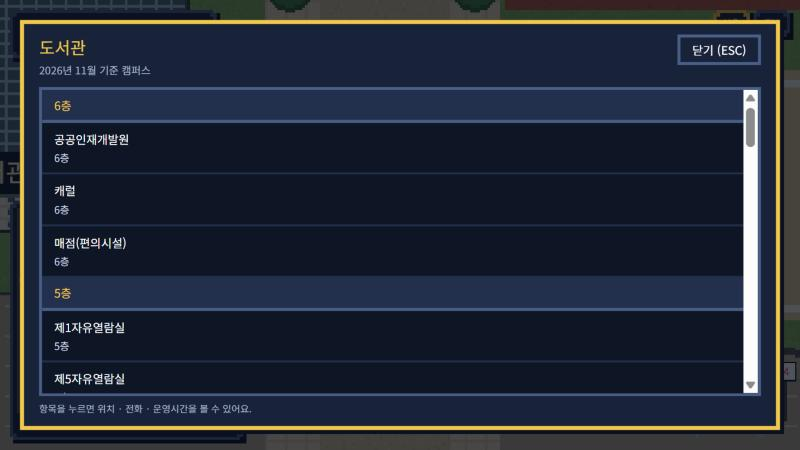
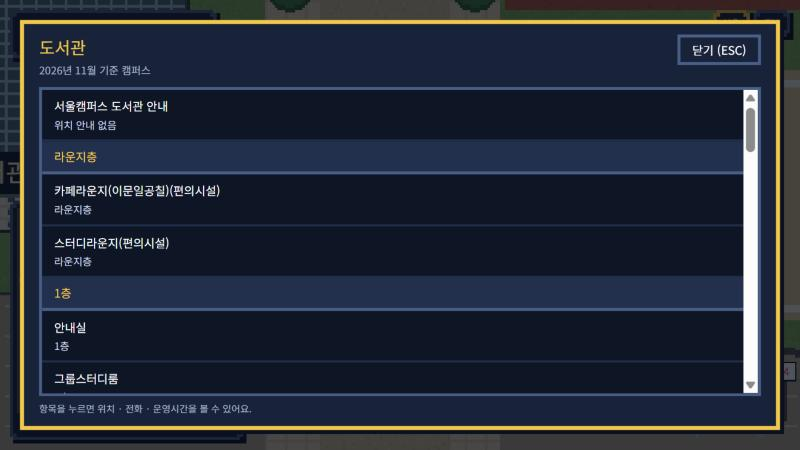
층 순서를 오름차순(라운지층 → 1층 → 6층)으로 바꾸고 지하층·도서관 층 안내 없음 줄 삭제
- 층별 묶음: 맨 위 건물 안내 → 라운지층 → 1층 → … → 6층 → 층 안내 없음(모든 건물 공통)
- 로비층 표기를 라운지층(Lounge)으로 바꾸고, 지하층(B1F) 읽기·표시를 없앰
- 도서관: '서울도서관 안내'를 '서울캠퍼스 도서관 안내'로 바꿔 맨 위(top)에 두고, 운영시간은 1층·라운지층 시간으로
- 도서관 층 안내 없는 줄(무인반납기·빵명장·자료실 이용시간·시험기간 자유열람실) 삭제, 일반자료실에 운영시간 추가
- 화면 캡처 다시 찍음(union·library·cyber, ko/en)

diff --git a/src/data/buildingInfo.js b/src/data/buildingInfo.js
@@ -15,12 +15,13 @@
  *
  * offices 한 줄: { name: {ko,en}, floor, room, does: {ko,en}, src, category, phone, hours, details, extraSrc?, checkedAt? }
  * - name.en: 근거에 적힌 영어 공식 표기만. 없으면 null(화면은 한국어 이름으로 대신 보여 줌)
- * - floor: "1F" · "LF"(로비층) · "B1F"처럼 근거 페이지에 층이 적혀 있을 때만, 여러 층이면 "2F · 3F". 호수만 있으면 null(호수로 층을 짐작해 넣지 않음)
- *   안내 창은 이 값으로 층별 묶음을 만듭니다(높은 층 → 1F → LF → B1F → 층 안내 없음).
+ * - floor: "1F" · "LF"(라운지층, 도서관)처럼 근거 페이지에 층이 적혀 있을 때만, 여러 층이면 "2F · 3F". 지하층은 다루지 않습니다.
+ *   호수만 있으면 null(호수로 층을 짐작해 넣지 않음). 안내 창은 이 값으로 층별 묶음을 만듭니다(라운지층 → 1층 → … → 6층 → 층 안내 없음).
+ * - top: true면 층 묶음 위, 목록 맨 위에 묶음 제목 없이 보여 줍니다(건물 전체 안내 한 줄용)
  * - room: "118호"처럼 근거에 적힌 그대로. 없으면 null
  * - does: 하는 일 한 줄. 근거 페이지에 적힌 범위 안에서만
  * - src: 아래 SOURCES의 키. 항목마다 근거가 다를 수 있어 줄마다 붙입니다
- * - category: "office"(행정 · 센터 · 도서관 안 시설) · "amenity"(식당 · 카페 · 매점 등 편의시설). 목록을 두 묶음으로 나눌 때 씁니다
+ * - category: "office"(행정 · 센터 · 도서관 안 시설) · "amenity"(식당 · 카페 · 매점 · 휴게 공간 등 편의시설). 편의시설은 화면에서 이름 뒤에 "(편의시설)"
  * - phone: 학교 부서 번호 문자열 배열(02-2173- · 02-6235-로 시작, 근거에 적힌 그대로 "02-2173-2152~4"). 없으면 null.
  *   전화번호는 이 칸에만 넣습니다(does · details · hours 글에 넣지 않음). 휴대폰 · 가게 직통 · 팩스 · 이메일은 넣지 않습니다
  * - hours: 운영시간 { ko, en }. 없으면 null(화면에 "안내 없음")
@@ -106,6 +107,7 @@ const o = (ko, en, floor, room, doesKo, doesEn, src, extra = {}) => ({
   details: extra.details ?? null,
   ...(extra.extraSrc ? { extraSrc: extra.extraSrc } : {}),
   ...(extra.checkedAt ? { checkedAt: extra.checkedAt } : {}),
+  ...(extra.top ? { top: true } : {}),
 });
 const OFFICE = { category: "office" };
 const AMENITY = { category: "amenity" };
@@ -554,25 +556,28 @@ export const BUILDING_INFO = {
       en: "General collection on 3F, research collection on 4F.",
     },
     offices: [
-      o("서울도서관 안내", null, null, null, "서울도서관 이용 문의", "Seoul Library inquiries", "lifeguide2026", {
+      o("서울캠퍼스 도서관 안내", null, null, null, "서울캠퍼스 도서관 이용 문의", "Seoul Campus Library inquiries", "lifeguide2026", {
         ...OFFICE,
+        top: true,
         phone: ["02-2173-2472~4"],
+        hours: LIB_HOURS,
         details: L(
           [
-            "지상 6층 · 지하층, 60만 권 자료실 · 70만 권 보존서고",
+            "지상 6층, 60만 권 자료실 · 70만 권 보존서고",
             "자유열람실 5개 900석, 특수열람실 159석",
             "컨퍼런스룸 180석, 캐럴 59실, 그룹스터디룸 16실",
             "멀티미디어실(PC 90석 · 노트북 129석), 세미나룸",
             "출입: 학생증 또는 모바일ID(QR · NFC)",
           ],
           [
-            "Six floors above ground plus a lower level; stacks for 600,000 and storage for 700,000 volumes",
+            "Six floors above ground; stacks for 600,000 and storage for 700,000 volumes",
             "Five reading rooms with 900 seats, special reading rooms with 159 seats",
             "Conference room for 180, 59 carrels, 16 group study rooms",
             "Multimedia room (90 PCs, 129 laptop seats) and seminar rooms",
             "Entry: student ID or mobile ID (QR or NFC)",
           ]
         ),
+        extraSrc: { hours: "team1124" },
         checkedAt: ADDED,
       }),
       // 6F (서울도서관 홈페이지 층별안내)
@@ -656,7 +661,7 @@ export const BUILDING_INFO = {
         checkedAt: ADDED,
       }),
       o("세미나룸", null, "2F", null, "35석", "35 seats", "libFloor", { ...OFFICE, checkedAt: ADDED }),
-      // 1F · 로비층(LF): 이 두 층의 시설은 스마트플라자와 여는 · 닫는 시간이 같습니다(이종헌 확인, team1124).
+      // 1F · 라운지층(LF): 이 두 층의 시설은 스마트플라자와 여는 · 닫는 시간이 같습니다(이종헌 확인, team1124).
       o("안내실", null, "1F", null, "도서관 1층 안내", "Library 1st-floor information desk", "libFloor", {
         ...OFFICE,
         hours: LIB_HOURS,
@@ -699,8 +704,8 @@ export const BUILDING_INFO = {
         extraSrc: { hours: "libHours", details: "libFloor" },
         checkedAt: ADDED,
       }),
-      // 로비층(LF)
-      o("카페라운지(이문일공칠)", null, "LF", null, "로비층 카페, 좌석 배정 없이 이용 · 음료 가능", "Lobby-floor café; no seat booking, drinks allowed", "libFloor", {
+      // 라운지층(LF)
+      o("카페라운지(이문일공칠)", null, "LF", null, "라운지층 카페, 좌석 배정 없이 이용 · 음료 가능", "Lounge-floor café; no seat booking, drinks allowed", "libFloor", {
         ...AMENITY,
         hours: LIB_HOURS,
         details: L(["커피 · 음료 · 베이커리(이문일공칠 인더북)"], ["Coffee, drinks and bakery (Imun 107 In the Book)"]),
@@ -714,12 +719,12 @@ export const BUILDING_INFO = {
         extraSrc: { hours: "team1124" },
         checkedAt: ADDED,
       }),
-      o("무인반납기", null, null, null, "로비층 · 1층 부출입구에서 도서 직접 반납", "Self-return machines on the lobby floor and at the 1st-floor side entrance", "lifeguide2026", {
+      o("일반자료실", "General collection", "3F", null, "정보봉사파트 자료실", "Information services collection", "phone", {
         ...OFFICE,
-        phone: ["02-2173-2474"],
+        hours: LIB_HOURS,
+        extraSrc: { hours: "libHours" },
         checkedAt: ADDED,
       }),
-      o("일반자료실", "General collection", "3F", null, "정보봉사파트 자료실", "Information services collection", "phone", OFFICE),
       o("복사실", "Copy room", "3F", null, "복사", "Copying", "phone", AMENITY),
       o("무인 복사실", "Self-service copy room", "1F · 2F · 3F", null, "복사 · 프린트", "Copying and printing", "welfare", AMENITY),
       o("학술연구자료실", "Research collection", "4F", null, "정보봉사파트 자료실", "Information services collection", "phone", {
@@ -749,22 +754,6 @@ export const BUILDING_INFO = {
         checkedAt: ADDED,
       }),
       o("매점", "Snack shop", "6F", null, "간식 · 음료 판매", "Snacks and drinks", "phone", AMENITY),
-      o("빵명장", "Bbang Myeongjang bakery", null, null, "건물 뒤 베이커리 카페", "Bakery café behind the building", "welfare", AMENITY),
-      o("자료실 이용시간", "Collection hours", null, null, "학기 중 평일 09:00~21:00, 학기 중 토요일 09:00~17:00, 방학 중 평일·토요일 09:00~17:00, 공휴일 폐실", "Semester weekdays 09:00-21:00, semester Saturdays 09:00-17:00, vacation weekdays and Saturdays 09:00-17:00, closed on holidays", "guide2026", {
-        ...OFFICE,
-        hours: LIB_HOURS,
-        details: L(
-          ["일반자료실 · 학술연구자료실 · 스마트플라자 같은 시간", "법정공휴일 휴관", "방학 중 시간은 학교 지침에 따라 바뀔 수 있음(도서관 홈페이지 공지)"],
-          ["Same hours for the general and research collections and Smart Plaza", "Closed on public holidays", "Vacation hours may change by university policy (see library notices)"]
-        ),
-        extraSrc: "lifeguide2026",
-        checkedAt: ADDED,
-      }),
-      o("시험기간 자유열람실", null, null, null, "시험기간 2주 전부터 제1~5 자유열람실 모두 24시간 개방", "From two weeks before exams, Reading Rooms 1-5 are all open 24 hours", "team1124", {
-        ...OFFICE,
-        hours: L("시험기간 2주 전부터 24시간 개방", "Open 24 hours from two weeks before exams"),
-        checkedAt: ADDED,
-      }),
     ],
     checkedAt: CHECKED,
   },

diff --git a/tests/officeView.test.js b/tests/officeView.test.js
@@ -39,50 +39,46 @@ test("위치 한 줄: 층 · 호수, 없으면 null", () => {
   assert.equal(locationText({ floor: "1F", room: "122호" }, "en"), "1F, Room 122");
   assert.equal(locationText({ floor: null, room: "603호" }, "ko"), "603호");
   assert.equal(locationText({ floor: "2F · 3F · 4F · 5F", room: null }, "ko"), "2층 · 3층 · 4층 · 5층");
-  assert.equal(locationText({ floor: "B1", room: null }, "ko"), "지하 1층");
-  assert.equal(locationText({ floor: "B1F", room: null }, "en"), "B1");
-  assert.equal(locationText({ floor: "LF", room: null }, "ko"), "로비층");
-  assert.equal(locationText({ floor: "LF", room: null }, "en"), "Lobby");
+  assert.equal(locationText({ floor: "LF", room: null }, "ko"), "라운지층");
+  assert.equal(locationText({ floor: "LF", room: null }, "en"), "Lounge");
   assert.equal(locationText({ floor: null, room: null }, "ko"), null);
 });
 
-test("층 읽기 · 묶음 제목: 6층 · 로비층 · 지하 1층 / 6F · Lobby · B1", () => {
+test("층 읽기 · 묶음 제목: 6층 · 라운지층 / 6F · Lounge, 지하층은 다루지 않음", () => {
   assert.deepEqual(parseFloor("6F"), { kind: "up", n: 6 });
-  assert.deepEqual(parseFloor("LF"), { kind: "lobby", n: 0 });
-  assert.deepEqual(parseFloor("B1F"), { kind: "basement", n: 1 });
-  assert.deepEqual(parseFloor("B1"), { kind: "basement", n: 1 });
-  assert.equal(parseFloor("옥상"), null);
+  assert.deepEqual(parseFloor("LF"), { kind: "lounge", n: 0 });
+  for (const token of ["B1F", "B1", "옥상"]) assert.equal(parseFloor(token), null, token);
   assert.equal(floorLabel(parseFloor("6F"), "ko"), "6층");
-  assert.equal(floorLabel(parseFloor("LF"), "ko"), "로비층");
-  assert.equal(floorLabel(parseFloor("B1F"), "ko"), "지하 1층");
+  assert.equal(floorLabel(parseFloor("LF"), "ko"), "라운지층");
   assert.equal(floorLabel(parseFloor("6F"), "en"), "6F");
-  assert.equal(floorLabel(parseFloor("LF"), "en"), "Lobby");
-  assert.equal(floorLabel(parseFloor("B1F"), "en"), "B1");
+  assert.equal(floorLabel(parseFloor("LF"), "en"), "Lounge");
 });
 
 const o = (name, floor, category = "office") => ({ name: { ko: name, en: null }, floor, category });
-const order = (groups) => groups.map((g) => (g.floor ? floorLabel(g.floor, "ko") : "없음"));
+const order = (groups) => groups.map((g) => (g.top ? "맨 위" : g.floor ? floorLabel(g.floor, "ko") : "없음"));
 
-test("층별 묶음: 높은 층 → 1층 → 로비층 → 지하 → 층 안내 없음(마지막)", () => {
-  const groups = groupByFloor([o("가", "1F"), o("나", null), o("다", "B1F"), o("라", "6F"), o("마", "LF"), o("바", "3F")]);
-  assert.deepEqual(order(groups), ["6층", "3층", "1층", "로비층", "지하 1층", "없음"]);
+test("층별 묶음: 맨 위 안내(top) → 라운지층 → 1층 → … → 6층 → 층 안내 없음(마지막)", () => {
+  const groups = groupByFloor([o("가", "1F"), o("나", null), { ...o("건물 안내", null), top: true }, o("라", "6F"), o("마", "LF"), o("바", "3F")]);
+  assert.deepEqual(order(groups), ["맨 위", "라운지층", "1층", "3층", "6층", "없음"]);
+  assert.deepEqual(groups[0].items.map((i) => i.office.name.ko), ["건물 안내"]);
 });
 
 test("여러 층 항목은 각 층 묶음에 모두, floor null은 '층 안내 없음'에(호수로 층을 짐작하지 않음)", () => {
   const offices = [o("무인 복사실", "1F · 2F · 3F", "amenity"), o("학생상담센터", null), { ...o("인권센터", null), room: "346호" }];
   const groups = groupByFloor(offices);
-  assert.deepEqual(order(groups), ["3층", "2층", "1층", "없음"]);
+  assert.deepEqual(order(groups), ["1층", "2층", "3층", "없음"]);
   for (const g of groups.slice(0, 3)) assert.deepEqual(g.items.map((i) => i.index), [0]);
   assert.deepEqual(groups.at(-1).items.map((i) => i.office.name.ko), ["학생상담센터", "인권센터"]);
 });
 
-test("실제 데이터: 모든 항목이 한 번 이상 들어가고, 도서관은 6층부터 '층 안내 없음'까지", () => {
+test("실제 데이터: 모든 항목이 한 번 이상 들어가고, 도서관은 안내 → 라운지층 → 1층 → 6층(층 안내 없음 없음)", () => {
   for (const [id, info] of Object.entries(BUILDING_INFO)) {
     const seen = new Set(groupByFloor(info.offices).flatMap((g) => g.items.map((i) => i.index)));
     assert.equal(seen.size, info.offices.length, id);
   }
-  const library = order(groupByFloor(BUILDING_INFO.library.offices));
-  assert.deepEqual(library, ["6층", "5층", "4층", "3층", "2층", "1층", "로비층", "없음"]);
+  const library = groupByFloor(BUILDING_INFO.library.offices);
+  assert.deepEqual(order(library), ["맨 위", "라운지층", "1층", "2층", "3층", "4층", "5층", "6층"]);
+  assert.deepEqual(library[0].items.map((i) => i.office.name.ko), ["서울캠퍼스 도서관 안내"]);
 });
 
 test("전화 링크는 첫 번호로(표시는 원문 그대로)", () => {

diff --git a/src/ui/officeView.js b/src/ui/officeView.js
@@ -28,29 +28,26 @@ export function nearestOfficePlace(places, x, y, range = OFFICE_RANGE, hasInfo =
   return best;
 }
 
-// floor 칸 한 층("6F" · "LF" · "B1F" · 예전 표기 "B1")을 { kind, n }으로 읽습니다. 읽지 못하면 null.
-// kind: "up"(지상) · "lobby"(로비층) · "basement"(지하)
+// floor 칸 한 층("6F" · "LF")을 { kind, n }으로 읽습니다. 지하층은 다루지 않고, 읽지 못하면 null.
+// kind: "up"(지상) · "lounge"(라운지층, 도서관 LF)
 export function parseFloor(token) {
   const text = String(token).trim();
-  let m = /^(\d+)F$/.exec(text);
+  const m = /^(\d+)F$/.exec(text);
   if (m) return { kind: "up", n: Number(m[1]) };
-  if (text === "LF") return { kind: "lobby", n: 0 };
-  m = /^B(\d+)F?$/.exec(text);
-  if (m) return { kind: "basement", n: Number(m[1]) };
+  if (text === "LF") return { kind: "lounge", n: 0 };
   return null;
 }
 
 // "1F · 2F · 3F"처럼 여러 층이면 각 층을 모두 돌려줍니다. null이면 빈 배열(= "층 안내 없음").
 export const floorsOf = (office) => (office.floor ? office.floor.split(" · ").map(parseFloor).filter(Boolean) : []);
 
-// 정렬 순서: 높은 층 → 1F → 로비층(LF) → 지하 1층 → 지하 2층 …
-const floorRank = (f) => (f.kind === "up" ? 1000 + f.n : f.kind === "lobby" ? 500 : 500 - f.n);
+// 정렬 순서(위에서 아래로): 라운지층(LF) → 1층 → 2층 → … → 6층
+const floorRank = (f) => (f.kind === "lounge" ? 0 : f.n);
 const floorKey = (f) => `${f.kind}:${f.n}`;
 
-// 위치 한 줄에 쓰는 층 이름. 한국어 "6층" · "로비층" · "지하 1층", 영어 "6F" · "Lobby" · "B1"
+// 위치 한 줄 · 묶음 제목에 쓰는 층 이름. 한국어 "6층" · "라운지층", 영어 "6F" · "Lounge"
 export function floorLabel(f, lang) {
-  if (f.kind === "lobby") return lang === "en" ? "Lobby" : "로비층";
-  if (f.kind === "basement") return lang === "en" ? `B${f.n}` : `지하 ${f.n}층`;
+  if (f.kind === "lounge") return lang === "en" ? "Lounge" : "라운지층";
   return lang === "en" ? `${f.n}F` : `${f.n}층`;
 }
 
@@ -80,12 +77,19 @@ export const officeName = (office, lang) => (lang === "en" && office.name.en ? o
 // suffix는 화면 언어의 문구(state.js officeAmenitySuffix)를 넘겨받습니다.
 export const displayName = (office, lang, suffix) => `${officeName(office, lang)}${office.category === "amenity" ? suffix : ""}`;
 
-// 목록을 층별로 묶습니다. 높은 층부터, 마지막에 "층 안내 없음"(floor null). 여러 층에 걸친 항목은 각 층 묶음에 모두 넣습니다.
-// 묶음 안에서는 원래 순서 그대로, 원래 번호(index)를 함께 돌려줍니다. 반환: [{ floor: {kind, n} | null, items: [{ office, index }] }]
+// 목록을 층별로 묶습니다. 맨 위에 건물 전체 안내(office.top, 묶음 제목 없음), 그다음 라운지층 → 1층 → … → 6층,
+// 마지막에 "층 안내 없음"(floor null). 여러 층에 걸친 항목은 각 층 묶음에 모두 넣습니다.
+// 묶음 안에서는 원래 순서 그대로, 원래 번호(index)를 함께 돌려줍니다.
+// 반환: [{ top?: true, floor: {kind, n} | null, items: [{ office, index }] }]
 export function groupByFloor(offices) {
   const groups = new Map();
   const none = [];
+  const top = [];
   offices.forEach((office, index) => {
+    if (office.top) {
+      top.push({ office, index });
+      return;
+    }
     const floors = floorsOf(office);
     if (!floors.length) {
       none.push({ office, index });
@@ -97,6 +101,6 @@ export function groupByFloor(offices) {
       groups.get(key).items.push({ office, index });
     });
   });
-  const sorted = [...groups.values()].sort((a, b) => floorRank(b.floor) - floorRank(a.floor));
-  return none.length ? [...sorted, { floor: null, items: none }] : sorted;
+  const sorted = [...groups.values()].sort((a, b) => floorRank(a.floor) - floorRank(b.floor));
+  return [...(top.length ? [{ top: true, floor: null, items: top }] : []), ...sorted, ...(none.length ? [{ floor: null, items: none }] : [])];
 }

diff --git a/src/ui/officeOverlay.js b/src/ui/officeOverlay.js
@@ -22,7 +22,7 @@ const baseDateText = () => {
 
 /*
  * 건물 입구에서 여는 사무실 · 시설 안내 창입니다. 행사 · 퀘스트 창과 같은 틀(hudOverlay.js)을 씁니다.
- * - 목록: 건물 이름 · 맵 기준일, 층별 묶음(높은 층 → 1층 → 로비층 → 지하 → 층 안내 없음), 항목마다 이름 + 위치 한 줄.
+ * - 목록: 건물 이름 · 맵 기준일, 맨 위 건물 전체 안내(top) → 층별 묶음(라운지층 → 1층 → … → 6층 → 층 안내 없음), 항목마다 이름 + 위치 한 줄.
  *   여러 층에 걸친 항목은 각 층에 모두 보이고, 편의시설은 이름 뒤에 "(편의시설)"을 붙입니다.
  * - 상세: 위치 · 학교 전화 · 운영시간 · 하는 일 · 주요 기능 · 출처 · "실제와 달라요" 신고, 목록으로 돌아가기
  * 모든 글자는 textContent로만 넣습니다. 출처 url이 null(팀 확인)이면 링크 없이 제목만 보여 줍니다.
@@ -37,8 +37,9 @@ export function createOfficeOverlay(game, onClose) {
     asOf.textContent = baseDateText();
     footer.textContent = t("officeListHint");
     const suffix = t("officeAmenitySuffix");
-    groupByFloor(info.offices).forEach(({ floor, items }) => {
-      body.append(el("h3", "ho-group", floor ? floorLabel(floor, lang) : t("officeFloorNone")));
+    groupByFloor(info.offices).forEach(({ top, floor, items }) => {
+      // 건물 전체 안내(top)는 묶음 제목 없이 맨 위에 둡니다.
+      if (!top) body.append(el("h3", "ho-group", floor ? floorLabel(floor, lang) : t("officeFloorNone")));
       const list = el("ul", "ho-offices");
       items.forEach(({ office, index }) => {
         const item = el("li");

diff --git a/src/state.js b/src/state.js
@@ -284,7 +284,7 @@ const STRINGS = {
   officePrompt: { ko: "[주요 기능 알아보기]", en: "[See what's inside]" },
   officeKeyHint: { ko: "Enter", en: "Enter" },
   officeKeyHintTouch: { ko: "터치", en: "Tap" },
-  // 층별 묶음: 층 이름(6층 · 로비층 · 지하 1층)은 src/ui/officeView.js floorLabel이 만들고, floor가 없을 때만 아래 문구
+  // 층별 묶음: 층 이름(라운지층 · 1층 · 6층)은 src/ui/officeView.js floorLabel이 만들고, floor가 없을 때만 아래 문구
   officeFloorNone: { ko: "층 안내 없음", en: "Floor not listed" },
   officeAmenitySuffix: { ko: "(편의시설)", en: " (Amenity)" },
   officeNoLocation: { ko: "위치 안내 없음", en: "Location not listed" },
